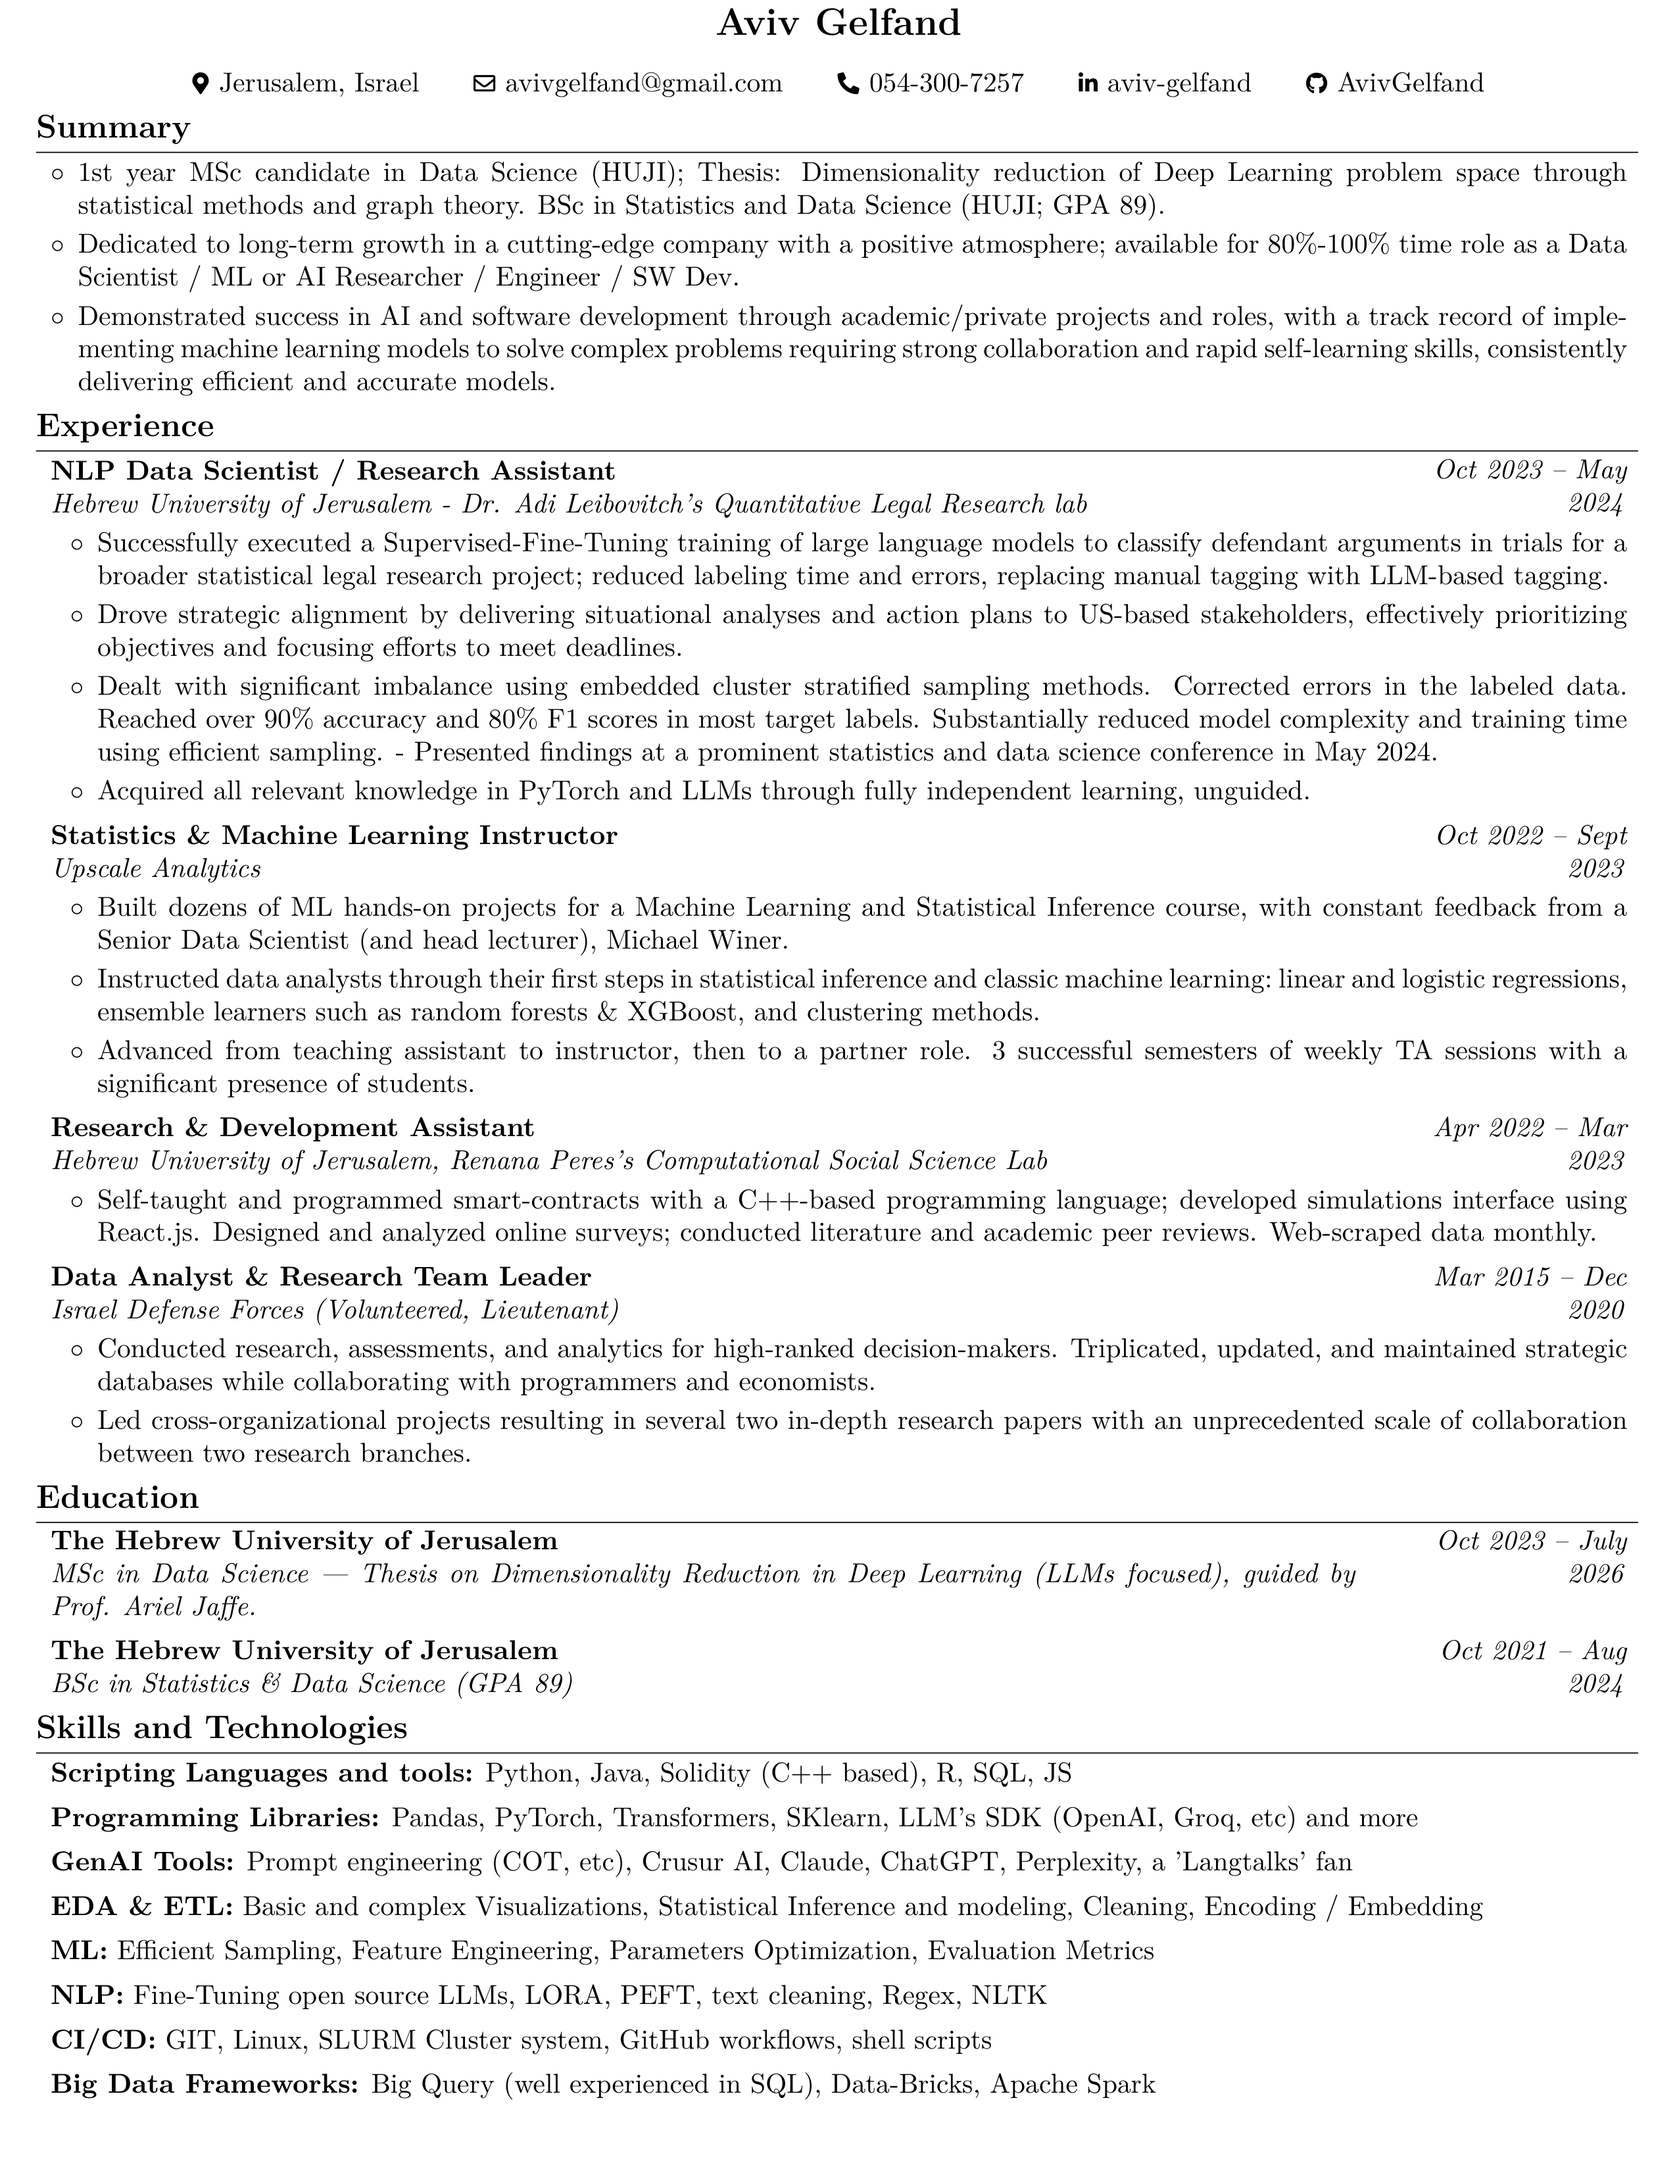
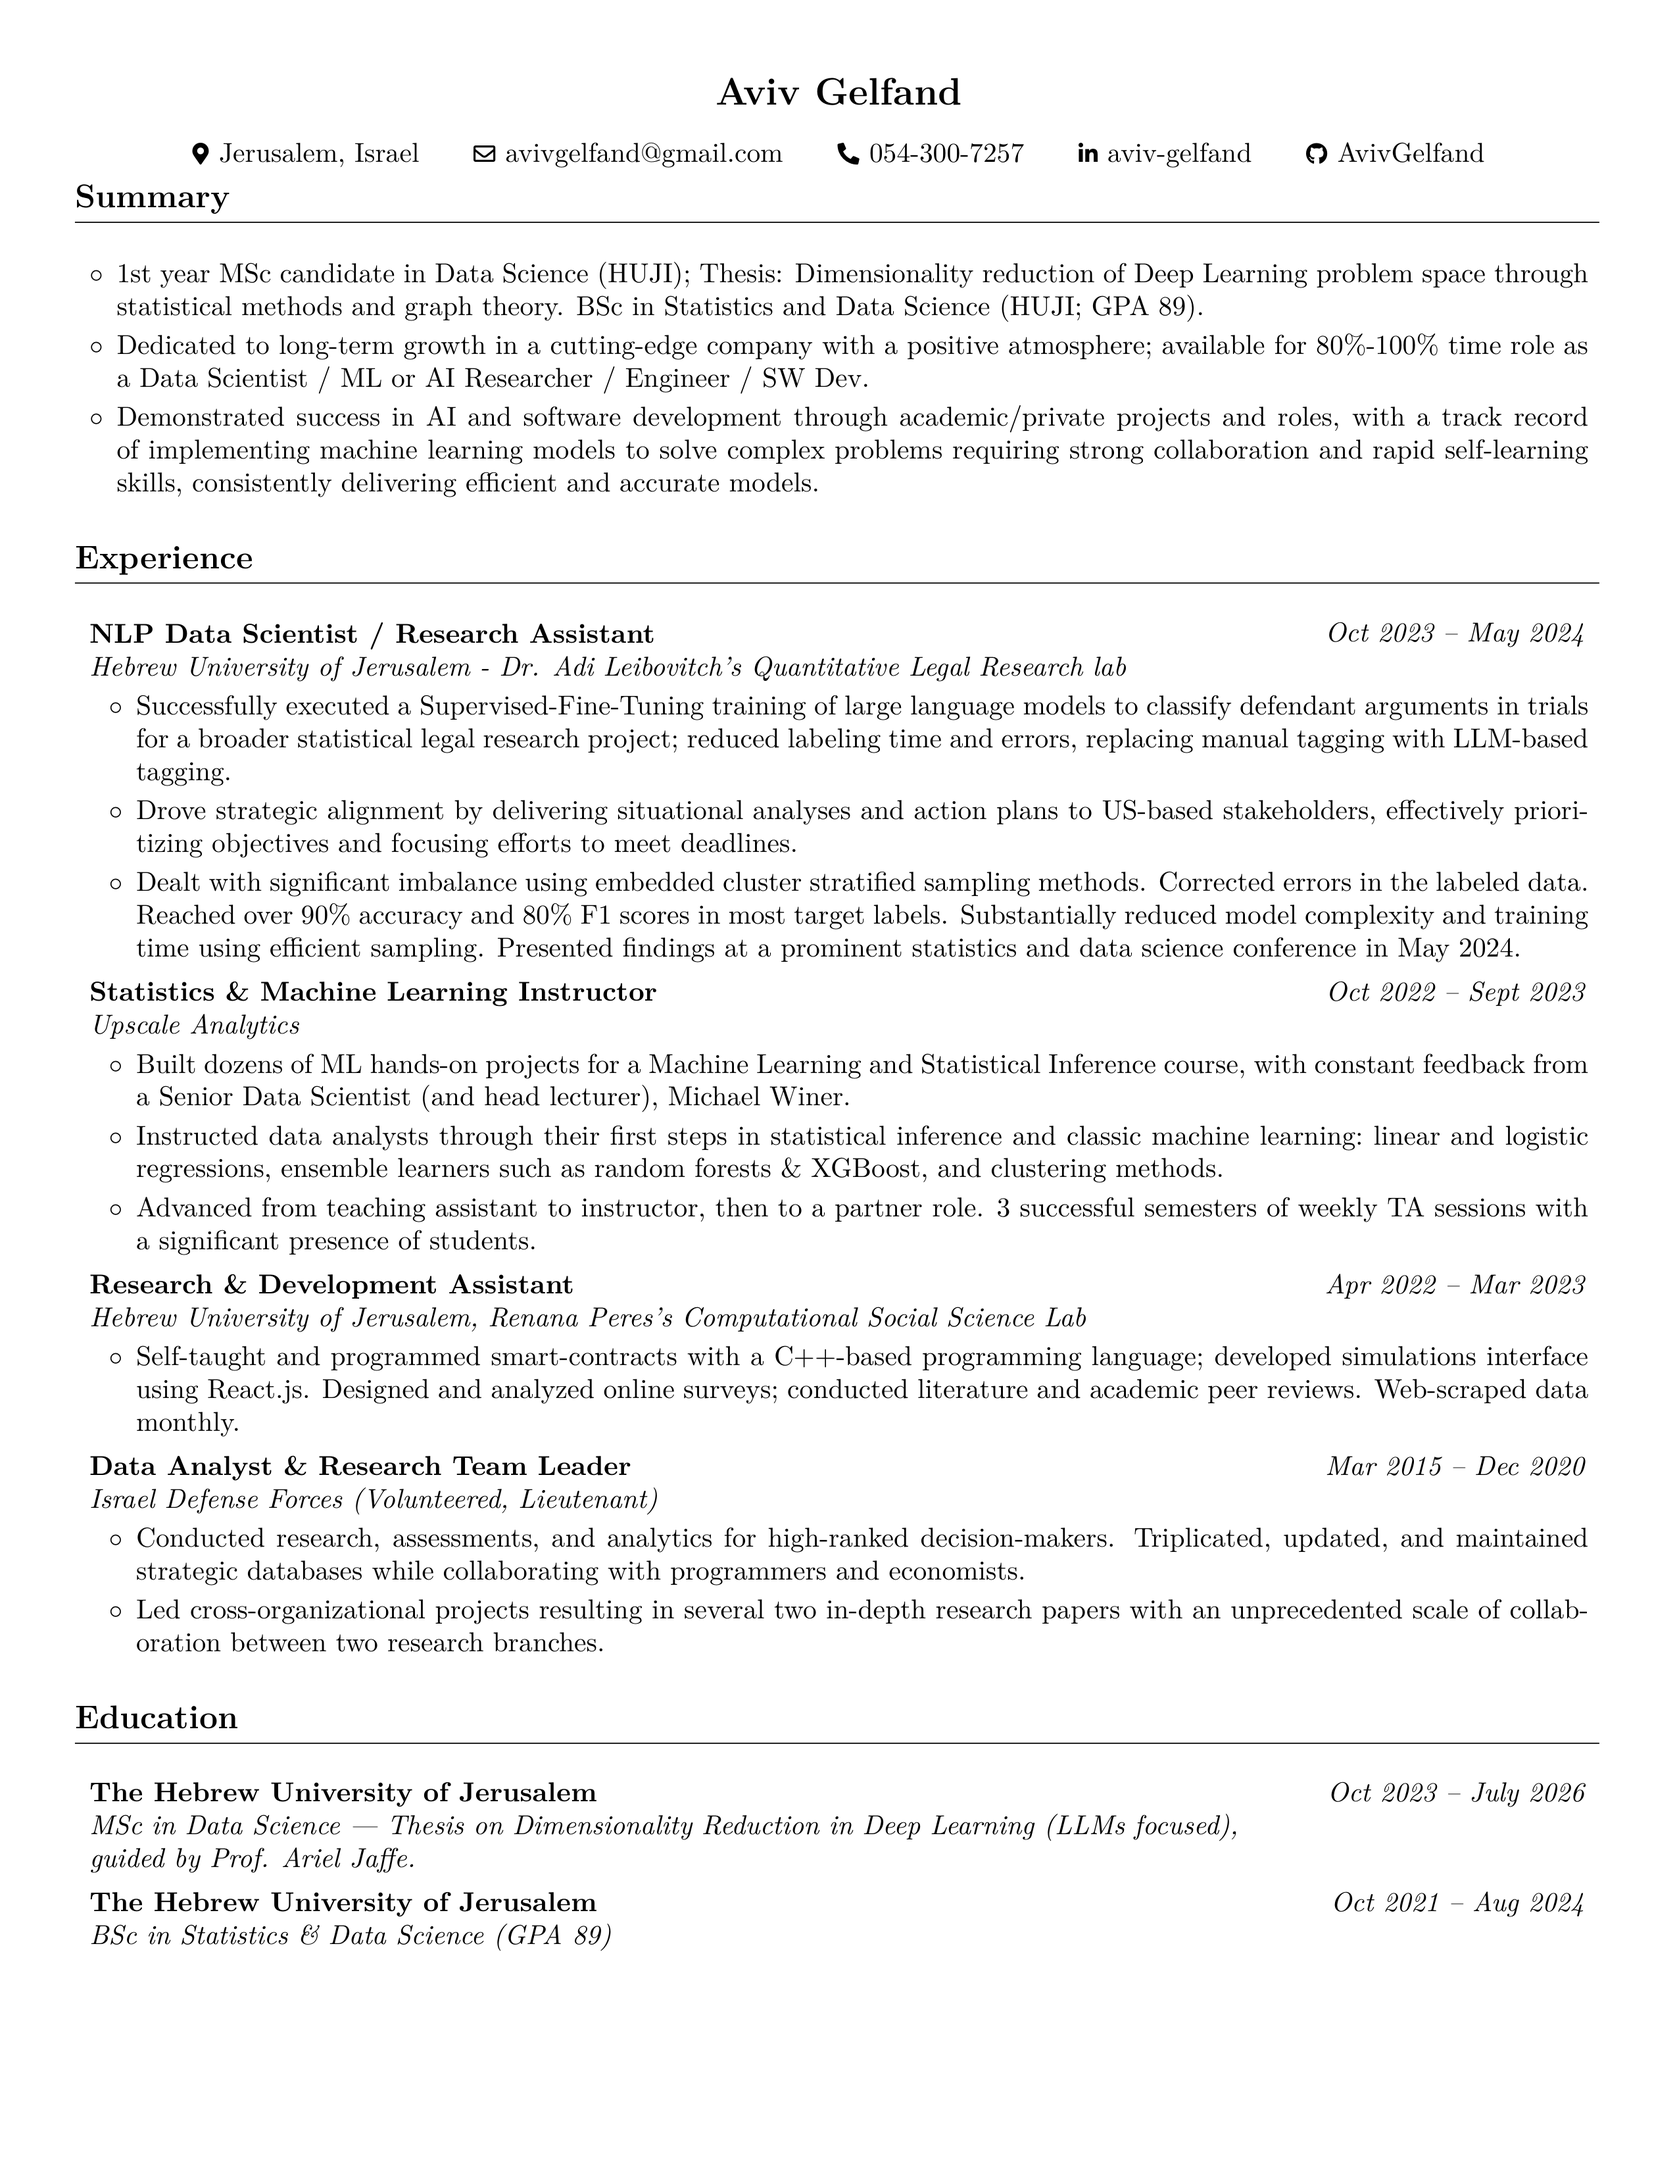
Render the latest CV

diff --git a/Aviv_Gelfand_CV.html b/Aviv_Gelfand_CV.html
@@ -52,8 +52,7 @@
         <li>Oct 2023 – May 2024</li>
         <li>Successfully executed a Supervised-Fine-Tuning training of large language models to classify defendant arguments in trials for a broader statistical legal research project; reduced labeling time and errors, replacing manual tagging with LLM-based tagging.</li>
         <li>Drove strategic alignment by delivering situational analyses and action plans to US-based stakeholders, effectively prioritizing objectives and focusing efforts to meet deadlines.</li>
-        <li>Dealt with significant imbalance using embedded cluster stratified sampling methods. Corrected errors in the labeled data. Reached over 90% accuracy and 80% F1 scores in most target labels. Substantially reduced model complexity and training time using efficient sampling. - Presented findings at a prominent statistics and data science conference in May 2024.</li>
-        <li>Acquired all relevant knowledge in PyTorch and LLMs through fully independent learning, unguided.</li>
+        <li>Dealt with significant imbalance using embedded cluster stratified sampling methods. Corrected errors in the labeled data. Reached over 90% accuracy and 80% F1 scores in most target labels. Substantially reduced model complexity and training time using efficient sampling. Presented findings at a prominent statistics and data science conference in May 2024.</li>
         </ul>
         <h2>Upscale Analytics, Statistics &amp; Machine Learning Instructor</h2>
         <ul>

diff --git a/Aviv_Gelfand_CV.tex b/Aviv_Gelfand_CV.tex
@@ -3,11 +3,11 @@
 % Packages:
 \usepackage[
     ignoreheadfoot, % set margins without considering header and footer
-    top=0.1 cm, % seperation between body and page edge from the top
-    bottom=0.1 cm, % seperation between body and page edge from the bottom
-    left=0.5 cm, % seperation between body and page edge from the left
-    right=0.5 cm, % seperation between body and page edge from the right
-    footskip=0.05 cm, % seperation between body and footer
+    top=1 cm, % seperation between body and page edge from the top
+    bottom=0.5 cm, % seperation between body and page edge from the bottom
+    left=1 cm, % seperation between body and page edge from the left
+    right=1 cm, % seperation between body and page edge from the right
+    footskip=0.25 cm, % seperation between body and footer
     % showframe % for debugging 
 ]{geometry} % for adjusting page geometry
 \usepackage{titlesec} % for customizing section titles
@@ -62,10 +62,10 @@
     -1pt
 }{
     % top space:
-    0.1 cm
+    0.5 cm
 }{
     % bottom space:
-    0.1 cm
+    0.5 cm
 } % section title spacing
 
 \renewcommand\labelitemi{$\circ$} % custom bullet points
@@ -107,7 +107,7 @@
 \newenvironment{twocolentry}[2][]{
     \onecolentry
     \def\secondColumn{#2}
-    \setcolumnwidth{\fill, 3.5 cm}
+    \setcolumnwidth{\fill, 4.5 cm}
     \begin{paracol}{2}
 }{
     \switchcolumn \raggedleft \secondColumn
@@ -124,8 +124,8 @@
 \newcommand{\placelastupdatedtext}{% \placetextbox{<horizontal pos>}{<vertical pos>}{<stuff>}
   \AddToShipoutPictureFG*{% Add <stuff> to current page foreground
     \put(
-        \LenToUnit{\paperwidth-0.5 cm-0.15 cm+0.05cm},
-        \LenToUnit{\paperheight-0.05 cm}
+        \LenToUnit{\paperwidth-1 cm-0.15 cm+0.05cm},
+        \LenToUnit{\paperheight-0.5 cm}
     ){\vtop{{\null}\makebox[0pt][c]{
         \small\color{gray}\textit{Last updated in September 2024}\hspace{\widthof{Last updated in September 2024}}
     }}}%
@@ -172,7 +172,7 @@
         \mbox{\hrefWithoutArrow{https://github.com/AvivGelfand}{\color{black}{\footnotesize\faGithub}\hspace*{0.13cm}AvivGelfand}}%
     \end{header}
 
-    \vspace{0.1 cm - 0.1 cm}
+    \vspace{0.1 cm - 0.5 cm}
 
 
     \section{Summary}
@@ -210,8 +210,7 @@
             \begin{highlights}
                 \item Successfully executed a Supervised-Fine-Tuning training of large language models to classify defendant arguments in trials for a broader statistical legal research project; reduced labeling time and errors, replacing manual tagging with LLM-based tagging.
                 \item Drove strategic alignment by delivering situational analyses and action plans to US-based stakeholders, effectively prioritizing objectives and focusing efforts to meet deadlines.
-                \item Dealt with significant imbalance using embedded cluster stratified sampling methods. Corrected errors in the labeled data. Reached over 90\% accuracy and 80\% F1 scores in most target labels. Substantially reduced model complexity and training time using efficient sampling. - Presented findings at a prominent statistics and data science conference in May 2024.
-                \item Acquired all relevant knowledge in PyTorch and LLMs through fully independent learning, unguided.
+                \item Dealt with significant imbalance using embedded cluster stratified sampling methods. Corrected errors in the labeled data. Reached over 90\% accuracy and 80\% F1 scores in most target labels. Substantially reduced model complexity and training time using efficient sampling. Presented findings at a prominent statistics and data science conference in May 2024.
             \end{highlights}
         \end{onecolentry}
 

diff --git a/README.md b/README.md
@@ -21,8 +21,7 @@
 - Oct 2023 – May 2024
 - Successfully executed a Supervised-Fine-Tuning training of large language models to classify defendant arguments in trials for a broader statistical legal research project; reduced labeling time and errors, replacing manual tagging with LLM-based tagging.
 - Drove strategic alignment by delivering situational analyses and action plans to US-based stakeholders, effectively prioritizing objectives and focusing efforts to meet deadlines.
-- Dealt with significant imbalance using embedded cluster stratified sampling methods. Corrected errors in the labeled data. Reached over 90% accuracy and 80% F1 scores in most target labels. Substantially reduced model complexity and training time using efficient sampling. - Presented findings at a prominent statistics and data science conference in May 2024.
-- Acquired all relevant knowledge in PyTorch and LLMs through fully independent learning, unguided.
+- Dealt with significant imbalance using embedded cluster stratified sampling methods. Corrected errors in the labeled data. Reached over 90% accuracy and 80% F1 scores in most target labels. Substantially reduced model complexity and training time using efficient sampling. Presented findings at a prominent statistics and data science conference in May 2024.
 
 ## Upscale Analytics, Statistics & Machine Learning Instructor
 
